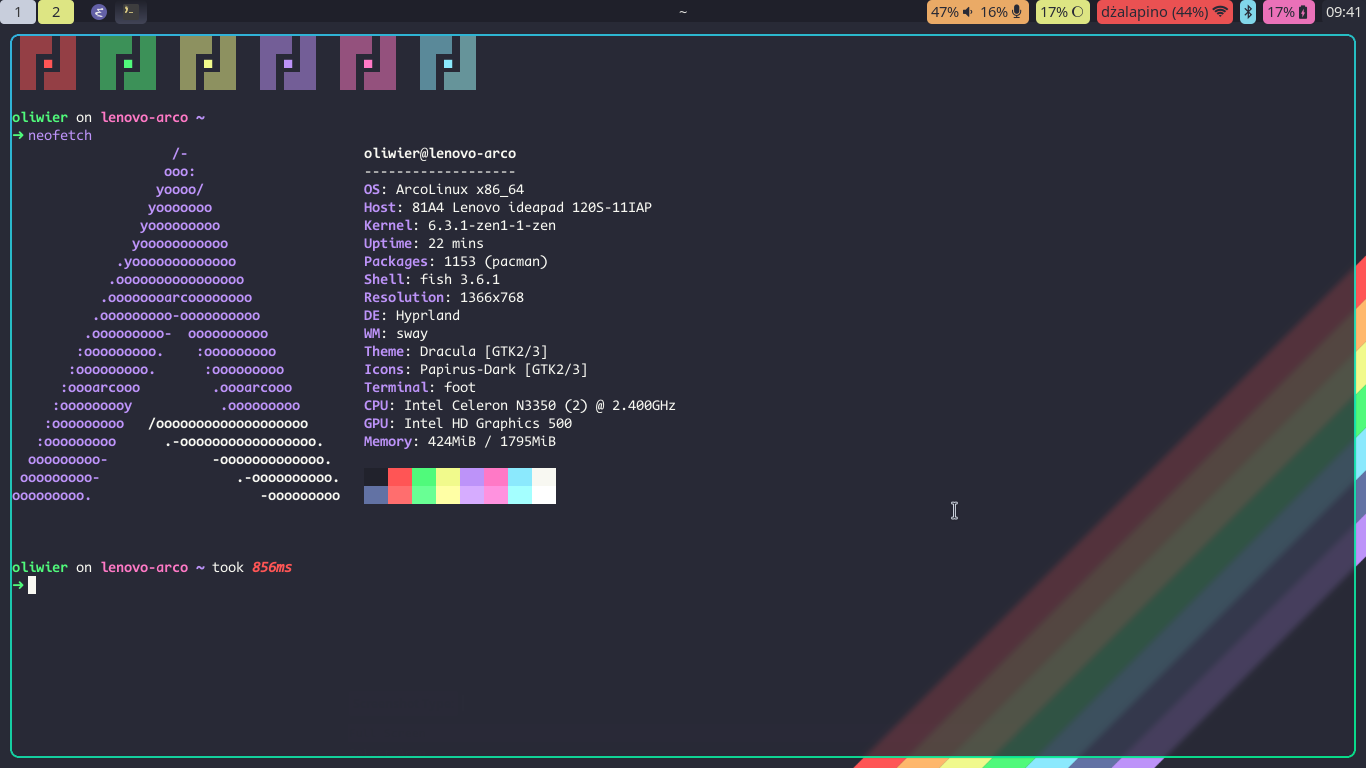
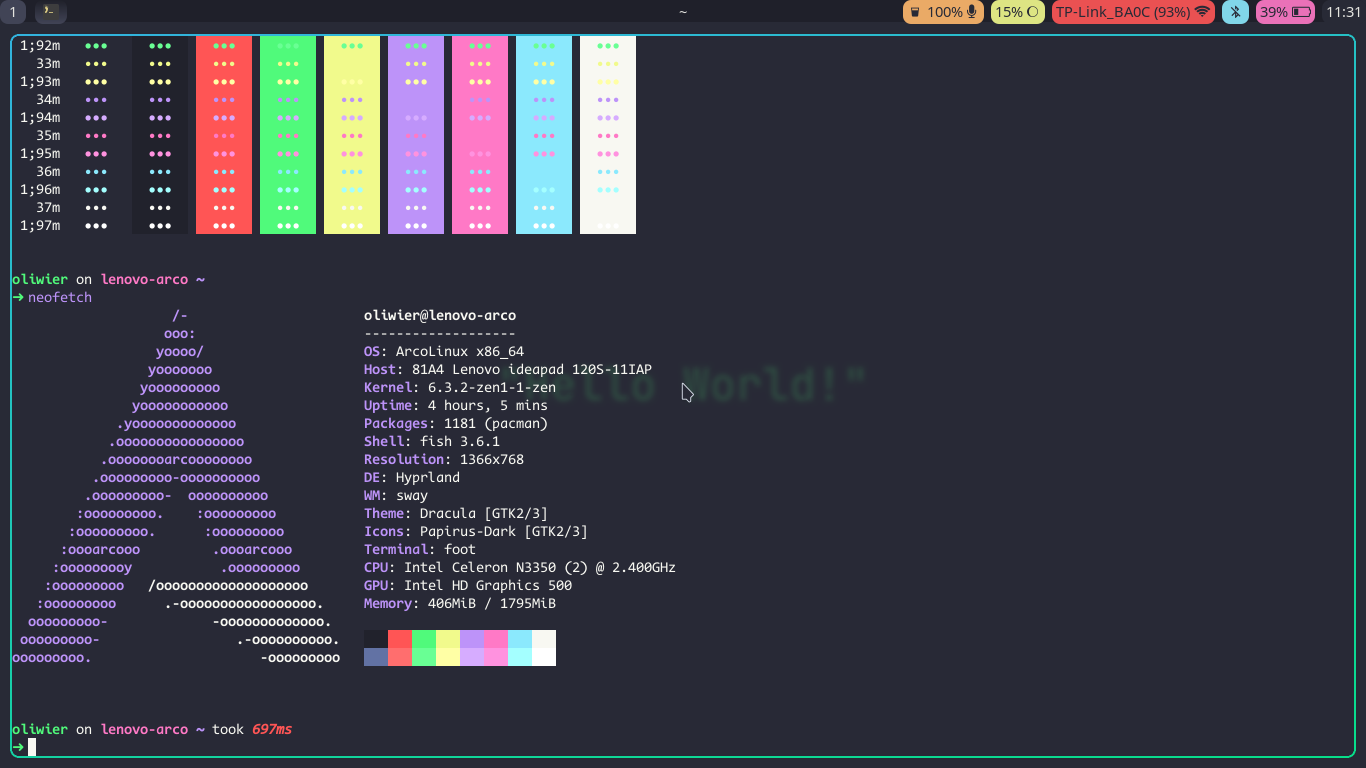
prettier waybar

diff --git a/home/.config/waybar/style.css b/home/.config/waybar/style.css
@@ -1,7 +1,7 @@
 @import url("./dracula.css");
 * {
     border: none;
-    border-radius: 5px;
+    border-radius: 8px;
     font-family: Iosevka;
     font-size: 11pt;
     min-height: 0;
@@ -13,7 +13,7 @@ window#waybar {
     border-bottom: 2px solid @background;
 }
 #workspaces button {
-    padding: 0 10px;
+    padding: 0 5px;
     background: @background;
     color: @foreground;
 }
@@ -23,7 +23,7 @@ window#waybar {
     color: @background;
     /* border: 2px solid #3a3b3c; */
     margin-right: 2px;
-    border-radius: 4px;
+    border-radius: 8px;
 }
 
 #workspaces button.active {
